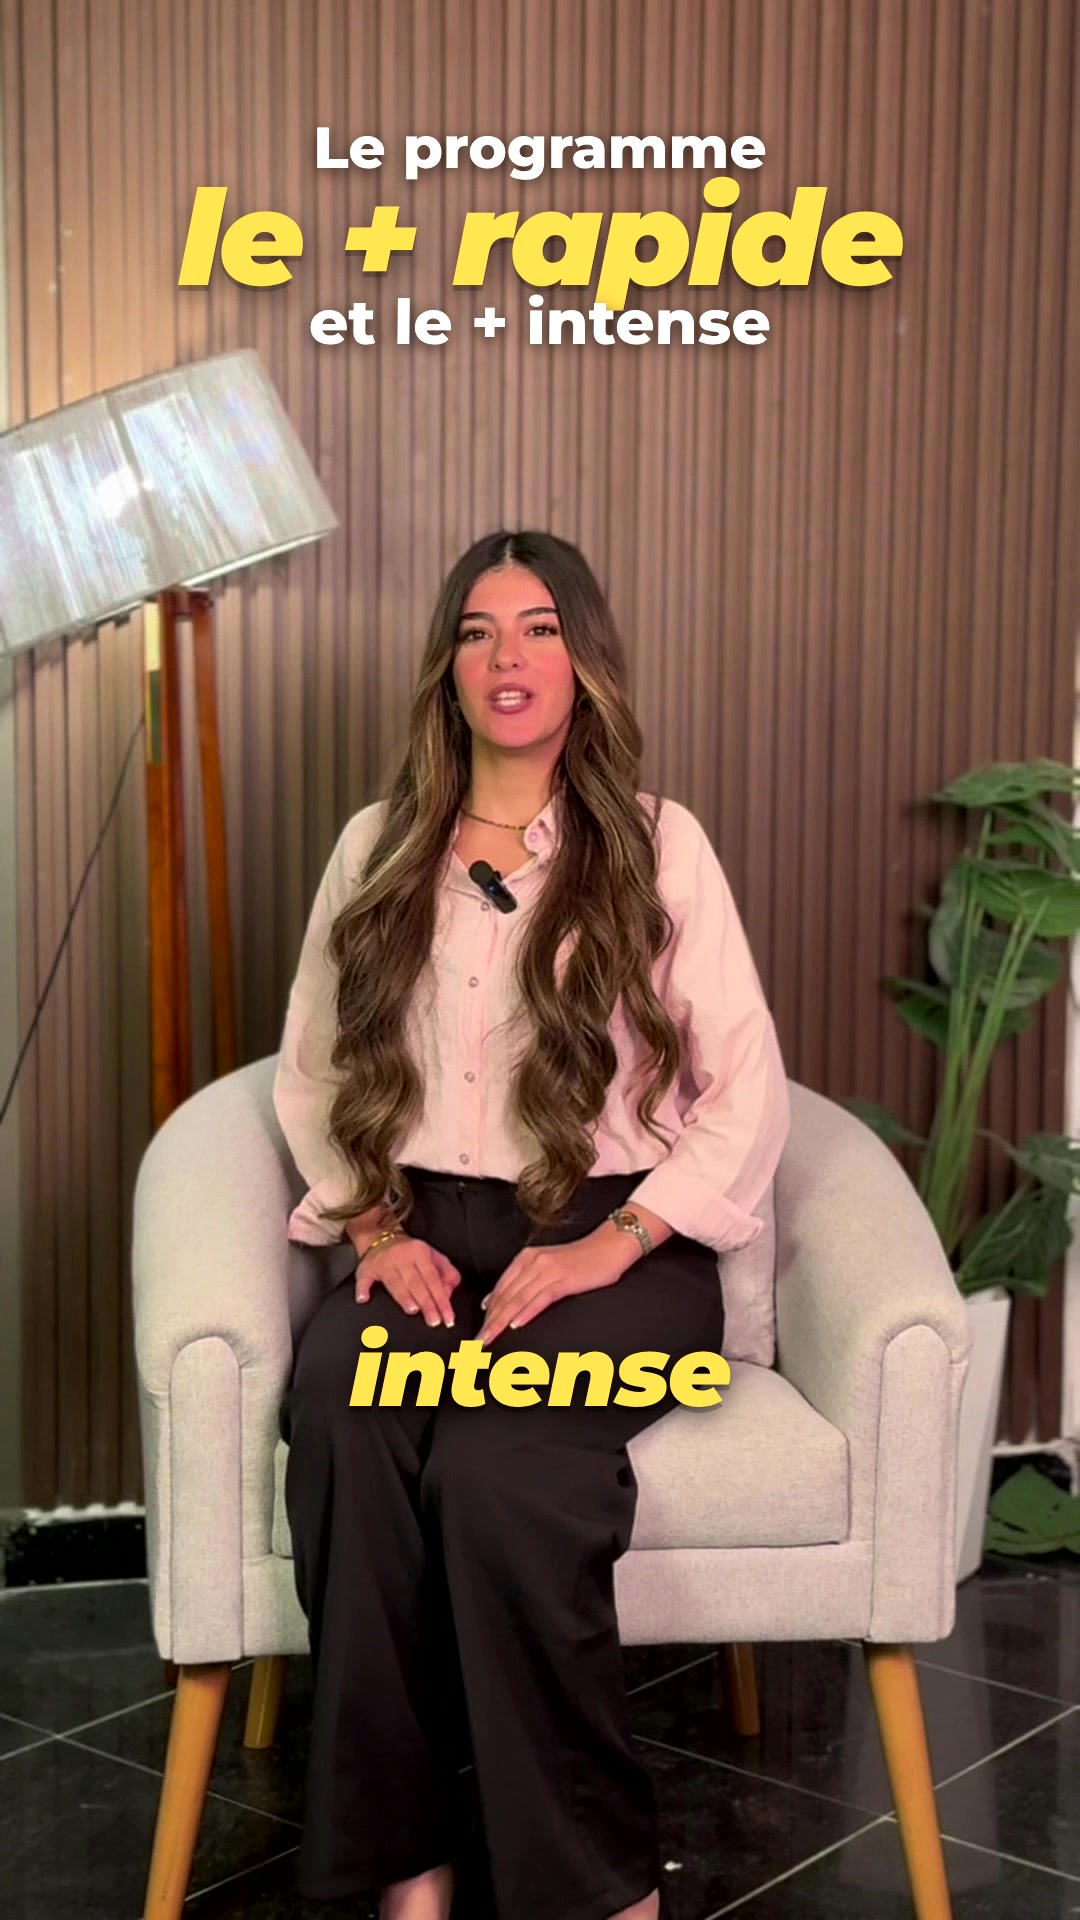
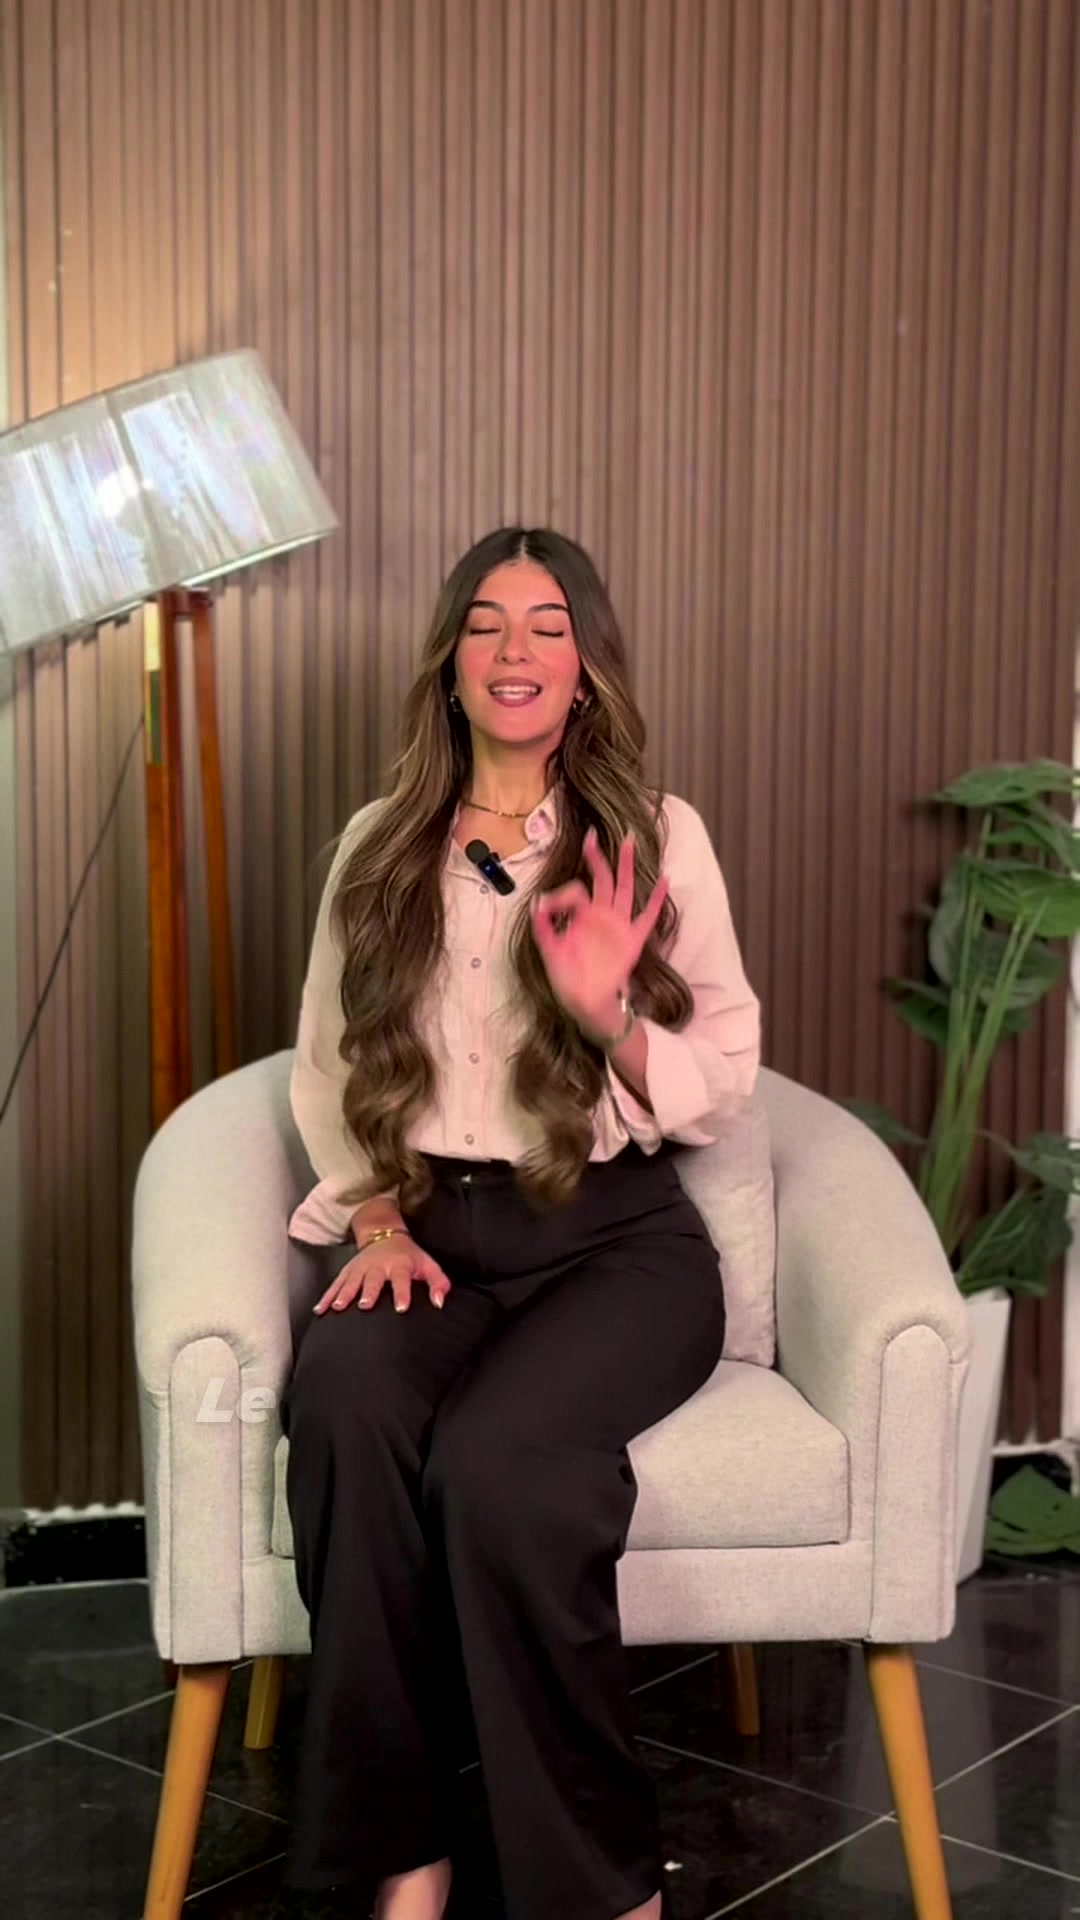
short-superfast v2: keep the sit-down hook, caption the « très intensif » passage
Claude-Session: https://claude.ai/code/session_01AxhibgRmBs7v8bGQfSccih

diff --git a/video-agent/edits/short-superfast/source/mg.html b/video-agent/edits/short-superfast/source/mg.html
@@ -29,6 +29,10 @@ body{font-family:M,sans-serif;position:relative}
 
 <!-- T1 -->
 <div id="s1" class="stack" style="top:120px"><div class="sm">Le programme</div><div class="bg" style="color:var(--gold)">le + rapide</div><div class="sm">et le + intense</div><div class="bg" style="color:var(--lav);font-size:96px">en allemand 🇩🇪</div></div>
+<!-- T2 très intensif -->
+<div id="s2" class="stack" style="top:120px"><div class="sm">attention</div><div class="bg" style="color:#FF7A7A;font-size:104px">TRÈS INTENSIF</div><div class="sm">pas pour tout le monde</div></div>
+<div id="tBo" class="tile" style="left:40px;top:300px"><div class="d" style="background:linear-gradient(145deg,#FFE48A,#E3A41F)"></div><div class="ic"><img src="icons/bolt.png"></div></div>
+<div id="tBo2" class="tile" style="left:890px;top:300px"><div class="d" style="background:linear-gradient(145deg,#FF9AD1,#D33C8C)"></div><div class="ic"><img src="icons/bolt.png"></div></div>
 <!-- T3 slow vs fast -->
 <div id="slowBar" class="a" style="left:120px;top:200px;width:840px;height:200px">
   <div style="position:absolute;left:0;top:120px;width:840px;height:22px;border-radius:11px;background:rgba(255,255,255,.35)"></div>
@@ -104,11 +108,13 @@ function drawFx(t) { fx.clearRect(0, 0, 1080, 1920);
       const px = x + Math.cos(a) * v * u * Math.exp(-u * 1.7), py = y + Math.sin(a) * v * u * Math.exp(-u * 1.7) + 480 * u * u;
       fx.globalAlpha = cl((1 - u / 1.2) * 1.4); fx.fillStyle = cols[i % cols.length]; fx.save(); fx.translate(px, py); fx.rotate(u * 8 + i); fx.fillRect(-8, -4, 16, 8); fx.restore(); } }
   fx.globalAlpha = 1; }
-burst(2.9, 540, 420); burst(16.9, 540, 360); burst(19.6, 540, 330); burst(26.1, 540, 220); burst(30.6, 540, 985, 30); burst(40.9, 540, 330); burst(44.0, 540, 200); burst(49.5, 540, 260, 34);
+burst(2.9, 540, 420); burst(5.5, 540, 260); burst(16.9, 540, 360); burst(19.6, 540, 330); burst(26.1, 540, 220); burst(30.6, 540, 985, 30); burst(40.9, 540, 330); burst(44.0, 540, 200); burst(49.5, 540, 260, 34);
 
 function draw(t) {
   // T1 1.19 - 3.78
   ST('s1', t, [1.25, 1.55, 2.05, 2.75], 3.78);
+  // T2 4.62 - 8.63
+  ST('s2', t, [4.75, 5.4, 6.9], 8.63); T('tBo', t, 5.5, 8.63); T('tBo2', t, 5.7, 8.63, 1);
   // T3 9.06 - 13.1 slow progress
   A('slowBar', t, 9.1, 11.95, { s0: 1, soft: 1 });
   { const u = lin(t, 9.2, 11.9) * .22; $('slowF').style.width = (840 * u) + 'px'; $('snail').style.left = (840 * u - 40) + 'px'; }
@@ -140,7 +146,7 @@ function draw(t) {
   drawFx(t);
 }
 
-const KEEPS = [[1.15, 3.78, 0.0], [4.62, 8.63, 2.63], [8.96, 13.1, 6.64], [13.38, 18.0, 10.78], [18.6, 28.98, 15.4], [29.62, 36.93, 25.78], [37.43, 42.32, 33.09], [43.05, 47.46, 37.98], [48.28, 53.8, 42.39]], CAPS = [[[1.19, "Le", false], [1.303, "programme", false], [1.417, "le", true], [1.53, "plus", true], [1.643, "rapide", true], [1.757, "et", false], [1.87, "le", true], [1.983, "plus", true], [2.097, "intense", true]], [[2.55, "pour", false], [2.722, "apprendre", false], [2.895, "l'allemand", true], [3.067, "au", false], [3.24, "monde.", false]], [[3.7, "", false]], [[9.06, "Au", false], [9.314, "lieu", false], [9.568, "d'avancer", false], [9.821, "petit", true], [10.075, "à", true], [10.329, "petit,", true]], [[11.09, "ce", false], [11.316, "programme", false], [11.543, "te", false], [11.77, "fait", false], [11.996, "passer", false]], [[12.6, "deux", true], [12.662, "niveaux", true], [12.725, "en", false], [12.787, "seulement", false], [12.85, "deux", true], [12.912, "mois.", true]], [[13.38, "Tu", false], [13.7, "fais", false], [14.02, "l'A1", true], [14.34, "et", false], [14.66, "l'A2", true], [14.98, "en", false], [15.3, "2", true], [15.62, "mois.", true]], [[17.95, "", false]], [[18.71, "C'est", false], [18.963, "le", false], [19.217, "Super", true], [19.471, "Fast", true], [19.724, "Track", true]], [[20.4, "de", false], [20.72, "Lougha", true], [21.04, "Online.", true]], [[21.87, "Spécialement", false], [22.099, "pour", false], [22.329, "ceux", false], [22.558, "qui", false], [22.788, "veulent", false]], [[23.4, "l'A2", true], [23.689, "avant", false], [23.977, "la", true], [24.266, "fin", true], [24.555, "de", true], [24.844, "l'année.", true]], [[25.71, "5", true], [25.989, "séances", true], [26.269, "par", false], [26.548, "semaine,", false]], [[27.2, "au", false], [27.412, "lieu", false], [27.625, "de", false], [27.837, "2", true], [28.05, "ou", true], [28.262, "3.", true]], [[28.9, "", false]], [[29.74, "Et", false], [29.974, "tu", false], [30.208, "reçois", false], [30.442, "ce", true], [30.676, "livre", true]], [[31.3, "à", false], [31.564, "suivre", false], [31.828, "avec", false], [32.092, "le", false], [32.356, "programme,", false]], [[33.06, "avec", false], [33.38, "des", false], [33.7, "exercices", true]], [[34.6, "et", false], [34.811, "de", false], [35.022, "la", false], [35.233, "place", false], [35.444, "pour", false], [35.655, "écrire", false], [35.866, "ton", true], [36.077, "vocabulaire.", true]], [[36.85, "", false]], [[37.53, "Et", false], [37.845, "nos", false], [38.16, "étudiants", false], [38.475, "auront", false], [38.79, "une", true], [39.105, "offre", true], [39.42, "spéciale", true]], [[40.47, "pour", false], [40.737, "étudier", false], [41.004, "en", true], [41.271, "Allemagne", true], [41.538, ":", true]], [[42.25, "", false]], [[43.16, "le", false], [43.346, "B1", true], [43.532, "et", false], [43.718, "le", false], [43.904, "B2,", true]], [[44.4, "si", false], [44.525, "tu", false], [44.65, "suis", false], [44.775, "toutes", false], [44.9, "les", false], [45.025, "étapes,", false]], [[45.4, "tu", false], [45.7, "les", false], [46.0, "feras", false], [46.3, "en", true], [46.6, "Allemagne.", true]], [[47.4, "", false]], [[48.39, "Si", false], [48.626, "ça", false], [48.862, "t'intéresse,", false], [49.097, "le", true], [49.333, "lien", true], [49.569, "est", false], [49.805, "dans", false], [50.041, "la", true], [50.277, "bio.", true]], [[51.22, "Tu", false], [51.453, "y", false], [51.685, "trouveras", false], [51.917, "les", true], [52.15, "avis", true], [52.383, "et", false], [52.615, "les", true], [52.848, "résultats.", true]]];
+const KEEPS = [[0.0, 3.78, 0.0], [4.62, 8.63, 3.78], [8.96, 13.1, 7.79], [13.38, 18.0, 11.93], [18.6, 28.98, 16.55], [29.62, 36.93, 26.93], [37.43, 42.32, 34.24], [43.05, 47.46, 39.13], [48.28, 53.8, 43.54]], CAPS = [[[1.19, "Le", false], [1.303, "programme", false], [1.417, "le", true], [1.53, "plus", true], [1.643, "rapide", true], [1.757, "et", false], [1.87, "le", true], [1.983, "plus", true], [2.097, "intense", true]], [[2.55, "pour", false], [2.722, "apprendre", false], [2.895, "l'allemand", true], [3.067, "au", false], [3.24, "monde.", false]], [[3.7, "", false]], [[4.7, "Ce", false], [4.938, "programme", false], [5.175, "est", false], [5.412, "très", true], [5.65, "intensif", true], [5.887, ":", false]], [[6.6, "tout", false], [6.787, "le", false], [6.975, "monde", false], [7.162, "ne", false], [7.35, "pourra", false], [7.537, "pas", false], [7.725, "le", true], [7.912, "suivre.", true]], [[8.6, "", false]], [[9.06, "Au", false], [9.314, "lieu", false], [9.568, "d'avancer", false], [9.821, "petit", true], [10.075, "à", true], [10.329, "petit,", true]], [[11.09, "ce", false], [11.316, "programme", false], [11.543, "te", false], [11.77, "fait", false], [11.996, "passer", false]], [[12.6, "deux", true], [12.662, "niveaux", true], [12.725, "en", false], [12.787, "seulement", false], [12.85, "deux", true], [12.912, "mois.", true]], [[13.38, "Tu", false], [13.7, "fais", false], [14.02, "l'A1", true], [14.34, "et", false], [14.66, "l'A2", true], [14.98, "en", false], [15.3, "2", true], [15.62, "mois.", true]], [[17.95, "", false]], [[18.71, "C'est", false], [18.963, "le", false], [19.217, "Super", true], [19.471, "Fast", true], [19.724, "Track", true]], [[20.4, "de", false], [20.72, "Lougha", true], [21.04, "Online.", true]], [[21.87, "Spécialement", false], [22.099, "pour", false], [22.329, "ceux", false], [22.558, "qui", false], [22.788, "veulent", false]], [[23.4, "l'A2", true], [23.689, "avant", false], [23.977, "la", true], [24.266, "fin", true], [24.555, "de", true], [24.844, "l'année.", true]], [[25.71, "5", true], [25.989, "séances", true], [26.269, "par", false], [26.548, "semaine,", false]], [[27.2, "au", false], [27.412, "lieu", false], [27.625, "de", false], [27.837, "2", true], [28.05, "ou", true], [28.262, "3.", true]], [[28.9, "", false]], [[29.74, "Et", false], [29.974, "tu", false], [30.208, "reçois", false], [30.442, "ce", true], [30.676, "livre", true]], [[31.3, "à", false], [31.564, "suivre", false], [31.828, "avec", false], [32.092, "le", false], [32.356, "programme,", false]], [[33.06, "avec", false], [33.38, "des", false], [33.7, "exercices", true]], [[34.6, "et", false], [34.811, "de", false], [35.022, "la", false], [35.233, "place", false], [35.444, "pour", false], [35.655, "écrire", false], [35.866, "ton", true], [36.077, "vocabulaire.", true]], [[36.85, "", false]], [[37.53, "Et", false], [37.845, "nos", false], [38.16, "étudiants", false], [38.475, "auront", false], [38.79, "une", true], [39.105, "offre", true], [39.42, "spéciale", true]], [[40.47, "pour", false], [40.737, "étudier", false], [41.004, "en", true], [41.271, "Allemagne", true], [41.538, ":", true]], [[42.25, "", false]], [[43.16, "le", false], [43.346, "B1", true], [43.532, "et", false], [43.718, "le", false], [43.904, "B2,", true]], [[44.4, "si", false], [44.525, "tu", false], [44.65, "suis", false], [44.775, "toutes", false], [44.9, "les", false], [45.025, "étapes,", false]], [[45.4, "tu", false], [45.7, "les", false], [46.0, "feras", false], [46.3, "en", true], [46.6, "Allemagne.", true]], [[47.4, "", false]], [[48.39, "Si", false], [48.626, "ça", false], [48.862, "t'intéresse,", false], [49.097, "le", true], [49.333, "lien", true], [49.569, "est", false], [49.805, "dans", false], [50.041, "la", true], [50.277, "bio.", true]], [[51.22, "Tu", false], [51.453, "y", false], [51.685, "trouveras", false], [51.917, "les", true], [52.15, "avis", true], [52.383, "et", false], [52.615, "les", true], [52.848, "résultats.", true]]];
 const toSrc = ts => { let k = KEEPS[0]; for (const q of KEEPS) if (ts >= q[2]) k = q; return Math.min(k[1], k[0] + (ts - k[2])); };
 const cap = $('cap');
 function caps(t) {

diff --git a/video-agent/edits/short-superfast/source/mg.tpl.html b/video-agent/edits/short-superfast/source/mg.tpl.html
@@ -29,6 +29,10 @@ body{font-family:M,sans-serif;position:relative}
 
 <!-- T1 -->
 <div id="s1" class="stack" style="top:120px"><div class="sm">Le programme</div><div class="bg" style="color:var(--gold)">le + rapide</div><div class="sm">et le + intense</div><div class="bg" style="color:var(--lav);font-size:96px">en allemand 🇩🇪</div></div>
+<!-- T2 très intensif -->
+<div id="s2" class="stack" style="top:120px"><div class="sm">attention</div><div class="bg" style="color:#FF7A7A;font-size:104px">TRÈS INTENSIF</div><div class="sm">pas pour tout le monde</div></div>
+<div id="tBo" class="tile" style="left:40px;top:300px"><div class="d" style="background:linear-gradient(145deg,#FFE48A,#E3A41F)"></div><div class="ic"><img src="icons/bolt.png"></div></div>
+<div id="tBo2" class="tile" style="left:890px;top:300px"><div class="d" style="background:linear-gradient(145deg,#FF9AD1,#D33C8C)"></div><div class="ic"><img src="icons/bolt.png"></div></div>
 <!-- T3 slow vs fast -->
 <div id="slowBar" class="a" style="left:120px;top:200px;width:840px;height:200px">
   <div style="position:absolute;left:0;top:120px;width:840px;height:22px;border-radius:11px;background:rgba(255,255,255,.35)"></div>
@@ -104,11 +108,13 @@ function drawFx(t) { fx.clearRect(0, 0, 1080, 1920);
       const px = x + Math.cos(a) * v * u * Math.exp(-u * 1.7), py = y + Math.sin(a) * v * u * Math.exp(-u * 1.7) + 480 * u * u;
       fx.globalAlpha = cl((1 - u / 1.2) * 1.4); fx.fillStyle = cols[i % cols.length]; fx.save(); fx.translate(px, py); fx.rotate(u * 8 + i); fx.fillRect(-8, -4, 16, 8); fx.restore(); } }
   fx.globalAlpha = 1; }
-burst(2.9, 540, 420); burst(16.9, 540, 360); burst(19.6, 540, 330); burst(26.1, 540, 220); burst(30.6, 540, 985, 30); burst(40.9, 540, 330); burst(44.0, 540, 200); burst(49.5, 540, 260, 34);
+burst(2.9, 540, 420); burst(5.5, 540, 260); burst(16.9, 540, 360); burst(19.6, 540, 330); burst(26.1, 540, 220); burst(30.6, 540, 985, 30); burst(40.9, 540, 330); burst(44.0, 540, 200); burst(49.5, 540, 260, 34);
 
 function draw(t) {
   // T1 1.19 - 3.78
   ST('s1', t, [1.25, 1.55, 2.05, 2.75], 3.78);
+  // T2 4.62 - 8.63
+  ST('s2', t, [4.75, 5.4, 6.9], 8.63); T('tBo', t, 5.5, 8.63); T('tBo2', t, 5.7, 8.63, 1);
   // T3 9.06 - 13.1 slow progress
   A('slowBar', t, 9.1, 11.95, { s0: 1, soft: 1 });
   { const u = lin(t, 9.2, 11.9) * .22; $('slowF').style.width = (840 * u) + 'px'; $('snail').style.left = (840 * u - 40) + 'px'; }

diff --git a/video-agent/edits/short-superfast/source/spec.js b/video-agent/edits/short-superfast/source/spec.js
@@ -1,13 +1,13 @@
 // Lougha Online - Super Fast Track (allemand). Edited after the creator's reference (ruemedias-style ad): few cuts, each shot a fixed
 // framing (wide / medium alternating, never a zoom move), stacked kinetic headlines at the top, 1-2 word bold-italic captions, glossy
 // jewel tiles that stack, a light flash before the CTA. Lougha identity: purple / gold, logo, Loughaonline.com. French captions only on
-// the phrases we understood (Darija voice). assets/source.mp4 = cut take; mg.html maps cut time -> take time (keeps.json).
+// the phrases we understood (Darija voice). v2: the sit-down hook (0-1.15 s) is kept; « très intensif » passage captioned. assets/source.mp4 = cut take; mg.html maps cut time -> take time (keeps.json).
 window.SPEC = {
   title: 'Lougha Online - Super Fast Track',
   media: { mg: { src: 'assets/mg.mov', width: 1080, alpha: true } },
   cam: { crop: [0, 0, 1080, 1920], eyes: [540, 640], q: 1 },
   cut: [],
-  tighten: { gap: 99 },
+  tighten: { gap: 99, lead: 5, tail: 5 },   // keep every frame of source.mp4 (the sit-down hook included)
   layout: { keys: [[0, 0]] },
   zoom: { keys: [[0, 1]] },
   actors: [],
@@ -15,6 +15,6 @@ window.SPEC = {
   music: { src: 'assets/music/fasttrack-bed.wav', offset: 0, breaks: [] },
   mix: { music: -27, duck: .5, ceil: -2.2 },
   grade: false,
-  sfx: { swish: 0, accents: 0, extra: [[0.4, 'pop', 0.08], [1.6, 'pop', 0.08], [11.4, 'pop', 0.08], [12.6, 'pop', 0.08], [14.1, 'thud', 0.4], [16.4, 'pop', 0.1], [20.4, 'pop', 0.08], [22.8, 'thud', 0.35], [24.4, 'tap', 0.06], [26.56, 'pop', 0.08], [29.46, 'pop', 0.06], [30.96, 'pop', 0.06], [34.26, 'pop', 0.08], [36.66, 'pop', 0.08], [38.23, 'pop', 0.08], [38.73, 'pop', 0.08], [43.41, 'pop', 0.1], [47.11, 'tap', 0.12]] },   // short times
+  sfx: { swish: 0, accents: 0, extra: [[1.55, 'pop', 0.08], [2.75, 'pop', 0.08], [4.56, 'thud', 0.4], [12.55, 'pop', 0.08], [13.75, 'pop', 0.08], [15.25, 'thud', 0.4], [17.55, 'pop', 0.1], [21.55, 'pop', 0.08], [23.95, 'thud', 0.35], [25.55, 'tap', 0.06], [27.71, 'pop', 0.08], [30.61, 'pop', 0.06], [32.11, 'pop', 0.06], [35.41, 'pop', 0.08], [37.81, 'pop', 0.08], [39.38, 'pop', 0.08], [39.88, 'pop', 0.08], [44.56, 'pop', 0.1], [48.26, 'tap', 0.12]] },   // short times
   captions: { hide: [[0, 99]] },
 };

diff --git a/video-agent/edits/short-superfast/source/build-mg.py b/video-agent/edits/short-superfast/source/build-mg.py
@@ -7,6 +7,9 @@ FR = [
  (1.19, "Le programme *le plus rapide* et *le plus intense*"),
  (2.55, "pour apprendre *l'allemand* au monde."),
  (3.70, ""),
+ (4.70, "Ce programme est *très intensif* :"),
+ (6.60, "tout le monde ne pourra pas *le suivre.*"),
+ (8.60, ""),
  (9.06, "Au lieu d'avancer *petit à petit,*"),
  (11.09, "ce programme te fait passer"),
  (12.60, "*deux niveaux* en seulement *deux mois.*"),
